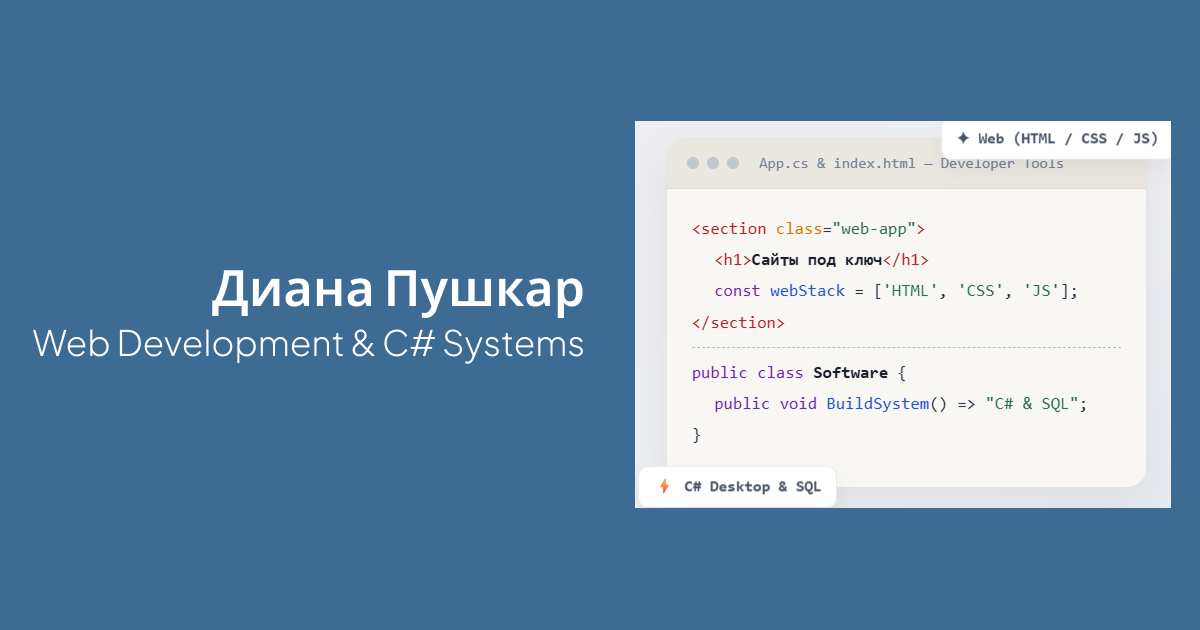
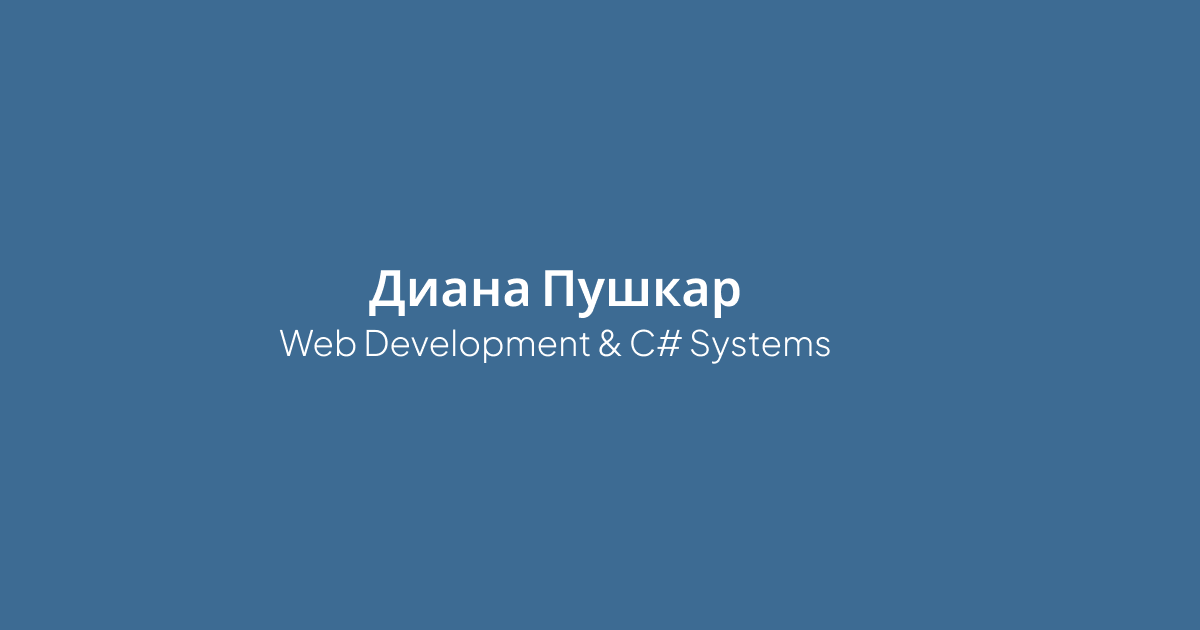
Add portfolio files and Open Graph metadata

Changed region(s): [[0.0308, 0.181, 0.9867, 0.8143]]

diff --git a/style.css b/style.css
@@ -385,60 +385,63 @@ body {
   transform: rotate(-45deg);
 }
 
-/* --- АДАПТИВ ДЛЯ МОБИЛЬНЫХ (до 768px) --- */
-@media (max-width: 768px) {
+/* --- МОБИЛЬНАЯ НАВИГАЦИЯ (экраны до 808px включительно) --- */
+@media (max-width: 808px) {
   .nav-toggle {
-    display: flex !important;
+    display: flex;
     align-items: center;
     justify-content: center;
   }
 
   .nav-links {
-    position: fixed !important;
-    top: 65px !important;
-    left: 0 !important;
-    width: 100vw !important;
+    position: absolute; /* Позиционируем относительно шапки, а не всего экрана */
+    top: 65px;
+    right: 24px; /* Прижимаем блок к правому краю */
+    left: auto; /* Отменяем растягивание от левого края */
+    width: auto;
+    min-width: 220px; /* Задаем аккуратную ширину меню */
 
-    background: rgba(244, 243, 245, 0.98) !important;
+    background: rgba(244, 243, 245, 0.98);
     backdrop-filter: blur(20px);
     -webkit-backdrop-filter: blur(20px);
-    border-bottom: 1px solid var(--glass-border-dark, rgba(0, 0, 0, 0.1));
+    border: 1px solid var(--glass-border-dark, rgba(0, 0, 0, 0.1));
+    border-radius: 16px;
 
-    display: flex !important;
-    flex-direction: column !important;
-    align-items: center !important;
-    gap: 0 !important;
+    display: flex;
+    flex-direction: column;
+    align-items: flex-start; /* Выравниваем элементы внутри блока по левому краю */
+    gap: 0;
 
     /* Скрытие по умолчанию */
-    opacity: 0 !important;
-    visibility: hidden !important;
-    transform: translateY(-10px) !important;
+    opacity: 0;
+    visibility: hidden;
+    transform: translateY(-10px);
     transition:
       opacity 0.3s ease,
       transform 0.3s ease,
-      visibility 0.3s ease !important;
+      visibility 0.3s ease;
 
-    z-index: 9999 !important;
+    z-index: 9999;
     box-shadow: 0 15px 30px rgba(0, 0, 0, 0.12);
   }
 
   .nav-links.active {
-    opacity: 1 !important;
-    visibility: visible !important;
-    transform: translateY(0) !important;
-    padding: 16px 0 !important;
+    opacity: 1;
+    visibility: visible;
+    transform: translateY(0);
+    padding: 12px 0;
   }
 
-  .nav-link {
-    width: 100% !important;
-    text-align: center !important;
-    padding: 14px 0 !important;
-    font-size: 1.05rem !important;
-    display: block !important;
-    color: var(--color-text-main, #1e293b) !important;
+  .nav-link,
+  .nav-links a {
+    width: 100%;
+    text-align: center;
+    padding: 14px 0;
+    font-size: 1.05rem;
+    display: block;
+    color: var(--color-text-main, #1e293b);
   }
 }
-
 /* ==========================================================================
    ПОЛУПРОЗРАЧНЫЙ ТЕМНЫЙ ФОН (OVERLAY)
    ========================================================================== */
@@ -1360,9 +1363,13 @@ body {
   display: flex;
   justify-content: center;
   gap: 12px;
+  flex-wrap: wrap;
 }
 
 .social-btn {
+  display: inline-flex;
+  align-items: center;
+  justify-content: center;
   padding: 10px 22px;
   border-radius: 10px;
   background: #ffffff;
@@ -1372,6 +1379,7 @@ body {
   font-weight: 600;
   font-size: 0.9rem;
   transition: all 0.25s;
+  white-space: nowrap;
 }
 
 .social-btn:hover {
@@ -1392,10 +1400,6 @@ body {
   font-size: 0.8rem;
   color: var(--color-text-muted);
   border-top: 1px solid var(--glass-border-dark);
-}
-
-.social-btn {
-  word-break: break-all;
 }
 
 /* ==========================================================================
@@ -1454,69 +1458,11 @@ body {
     font-size: 2.4rem;
   }
 }
-/* --- ДЕСКТОП И НОУТБУКИ (более 768px) --- */
-@media (min-width: 769px) {
-  /* Прячем кнопку-гамбургер */
-  .nav-toggle {
-    display: none !important;
-  }
-
-  .nav-links {
-    display: flex !important;
-    position: static !important;
-    transform: none !important;
-    opacity: 1 !important;
-    visibility: visible !important;
-    height: auto !important;
-    width: auto !important;
-    background: transparent !important;
-    box-shadow: none !important;
-    flex-direction: row !important;
-    padding: 0 !important;
-  }
-}
 
 /* --- МОБИЛЬНЫЕ И ПЛАНШЕТЫ (до 768px) --- */
 @media (max-width: 768px) {
-  .nav-toggle {
-    display: flex !important;
-  }
-
   .section {
     padding: 35px 0;
-  }
-
-  .nav-links {
-    position: fixed !important;
-    top: 65px !important;
-    right: 0 !important;
-    left: auto !important;
-
-    width: 280px !important;
-    max-width: 85vw !important;
-    height: calc(100vh - 65px) !important;
-
-    background: rgba(244, 243, 245, 0.8) !important;
-    backdrop-filter: blur(20px);
-    -webkit-backdrop-filter: blur(20px);
-    border-left: 1px solid var(--glass-border-dark, rgba(0, 0, 0, 0.1));
-    border-bottom: 1px solid var(--glass-border-dark, rgba(0, 0, 0, 0.1));
-
-    display: flex !important;
-    flex-direction: column !important;
-    align-items: stretch !important;
-    gap: 0 !important;
-
-    opacity: 0 !important;
-    visibility: hidden !important;
-    transform: translateX(100%) !important;
-    transition:
-      opacity 0.3s ease,
-      transform 0.3s cubic-bezier(0.4, 0, 0.2, 1),
-      visibility 0.3s ease !important;
-
-    z-index: 9999 !important;
-    box-shadow: -10px 15px 30px rgba(0, 0, 0, 0.12);
   }
 
   .nav-links.active {
@@ -2099,19 +2045,13 @@ section[id] {
 /* Адаптив для мобильных устройств  */
 @media (max-width: 768px) {
   .hero-title {
-    font-size: 1.8rem;
-    line-height: 1.25;
+    font-size: 1.6rem; /* Чуть уменьшаем шрифт, чтобы строки помещались */
+    line-height: 1.3;
   }
 
-  .typewriter {
-    white-space: normal !important;
-    border-right: none !important;
-    width: auto !important;
-    animation: none !important;
-  }
-
-  .hero-title .highlight {
-    display: inline;
+  /* Сохраняем анимацию, но регулируем размеры под экран */
+  .hero-title .typewriter {
+    font-size: 1.6rem;
   }
 
   .hero-actions {
@@ -2129,5 +2069,20 @@ section[id] {
     font-size: 0.85rem;
     white-space: nowrap;
     flex: 0 1 auto;
+  }
+  .project-links {
+    display: flex;
+    flex-direction: column; /* Выстраиваем кнопки в колонку */
+    align-items: center; /* Центрируем по горизонтали */
+    gap: 10px; /* Расстояние между кнопками */
+    width: 100%;
+  }
+
+  /* Настройка ширины и выравнивания текста внутри самих кнопок */
+  .project-links .btn {
+    width: 100%; /* Кнопки будут одинаковой ширины */
+    max-width: 260px; /* Ограничение, чтобы не растягивались во весь экран */
+    text-align: center;
+    justify-content: center;
   }
 }

diff --git a/index.html b/index.html
@@ -444,7 +444,7 @@
                     </div>
                     <div class="project-info">
                         <span class="project-category">Desktop Application / C# &amp; WPF</span>
-                        <h3>ИС Складского Учета «Kvaternion Warehouse»</h3>
+                        <h3>ИС Складского Учета «Кватернион Групп»</h3>
                         <p>Десктопная система для автоматизации учета материалов на складе, управления накладными и
                             формирования аналитической отчетности.</p>
 
@@ -541,8 +541,12 @@
                 <div class="social-links">
                     <a href="https://t.me/dia_nka02" target="_blank" class="social-btn">Telegram</a>
                     <a href="https://t.me/DanilTenar" class="social-btn">Telegram менеджера</a>
+                    <a href="https://wa.me/79776677798" class="social-btn">WhatsApp менеджера</a>
+                    <a href="https://max.ru/u/f9LHodD0cOLZGuYuB2yILzCqjNDyl80bAb8Le5J8PWkG5hEd6UIlLgCjIYE"
+                        target="_blank" class="social-btn">Max менеджера</a>
                     <a href="https://github.com/PushkarDiana" target="_blank" class="social-btn">GitHub</a>
                 </div>
+
             </div>
         </div>
     </section>

diff --git a/project-armortech.html b/project-armortech.html
@@ -34,7 +34,7 @@
 
             <div class="nav-actions">
                 <a href="index.html#projects" class="btn btn-secondary btn-sm">
-                    &larr; Вернуться на главную
+                    &larr; Назад
                 </a>
             </div>
         </div>

diff --git a/project-lumina.html b/project-lumina.html
@@ -35,7 +35,7 @@
 
             <div class="nav-actions">
                 <a href="index.html#projects" class="btn btn-secondary btn-sm">
-                    &larr; Вернуться на главную
+                    &larr; Назад
                 </a>
             </div>
         </div>

diff --git a/project-warehouse.html b/project-warehouse.html
@@ -37,7 +37,7 @@
 
             <div class="nav-actions">
                 <a href="index.html#projects" class="btn btn-secondary btn-sm">
-                    &larr; Вернуться на главную
+                    &larr; Назад
                 </a>
             </div>
         </div>
